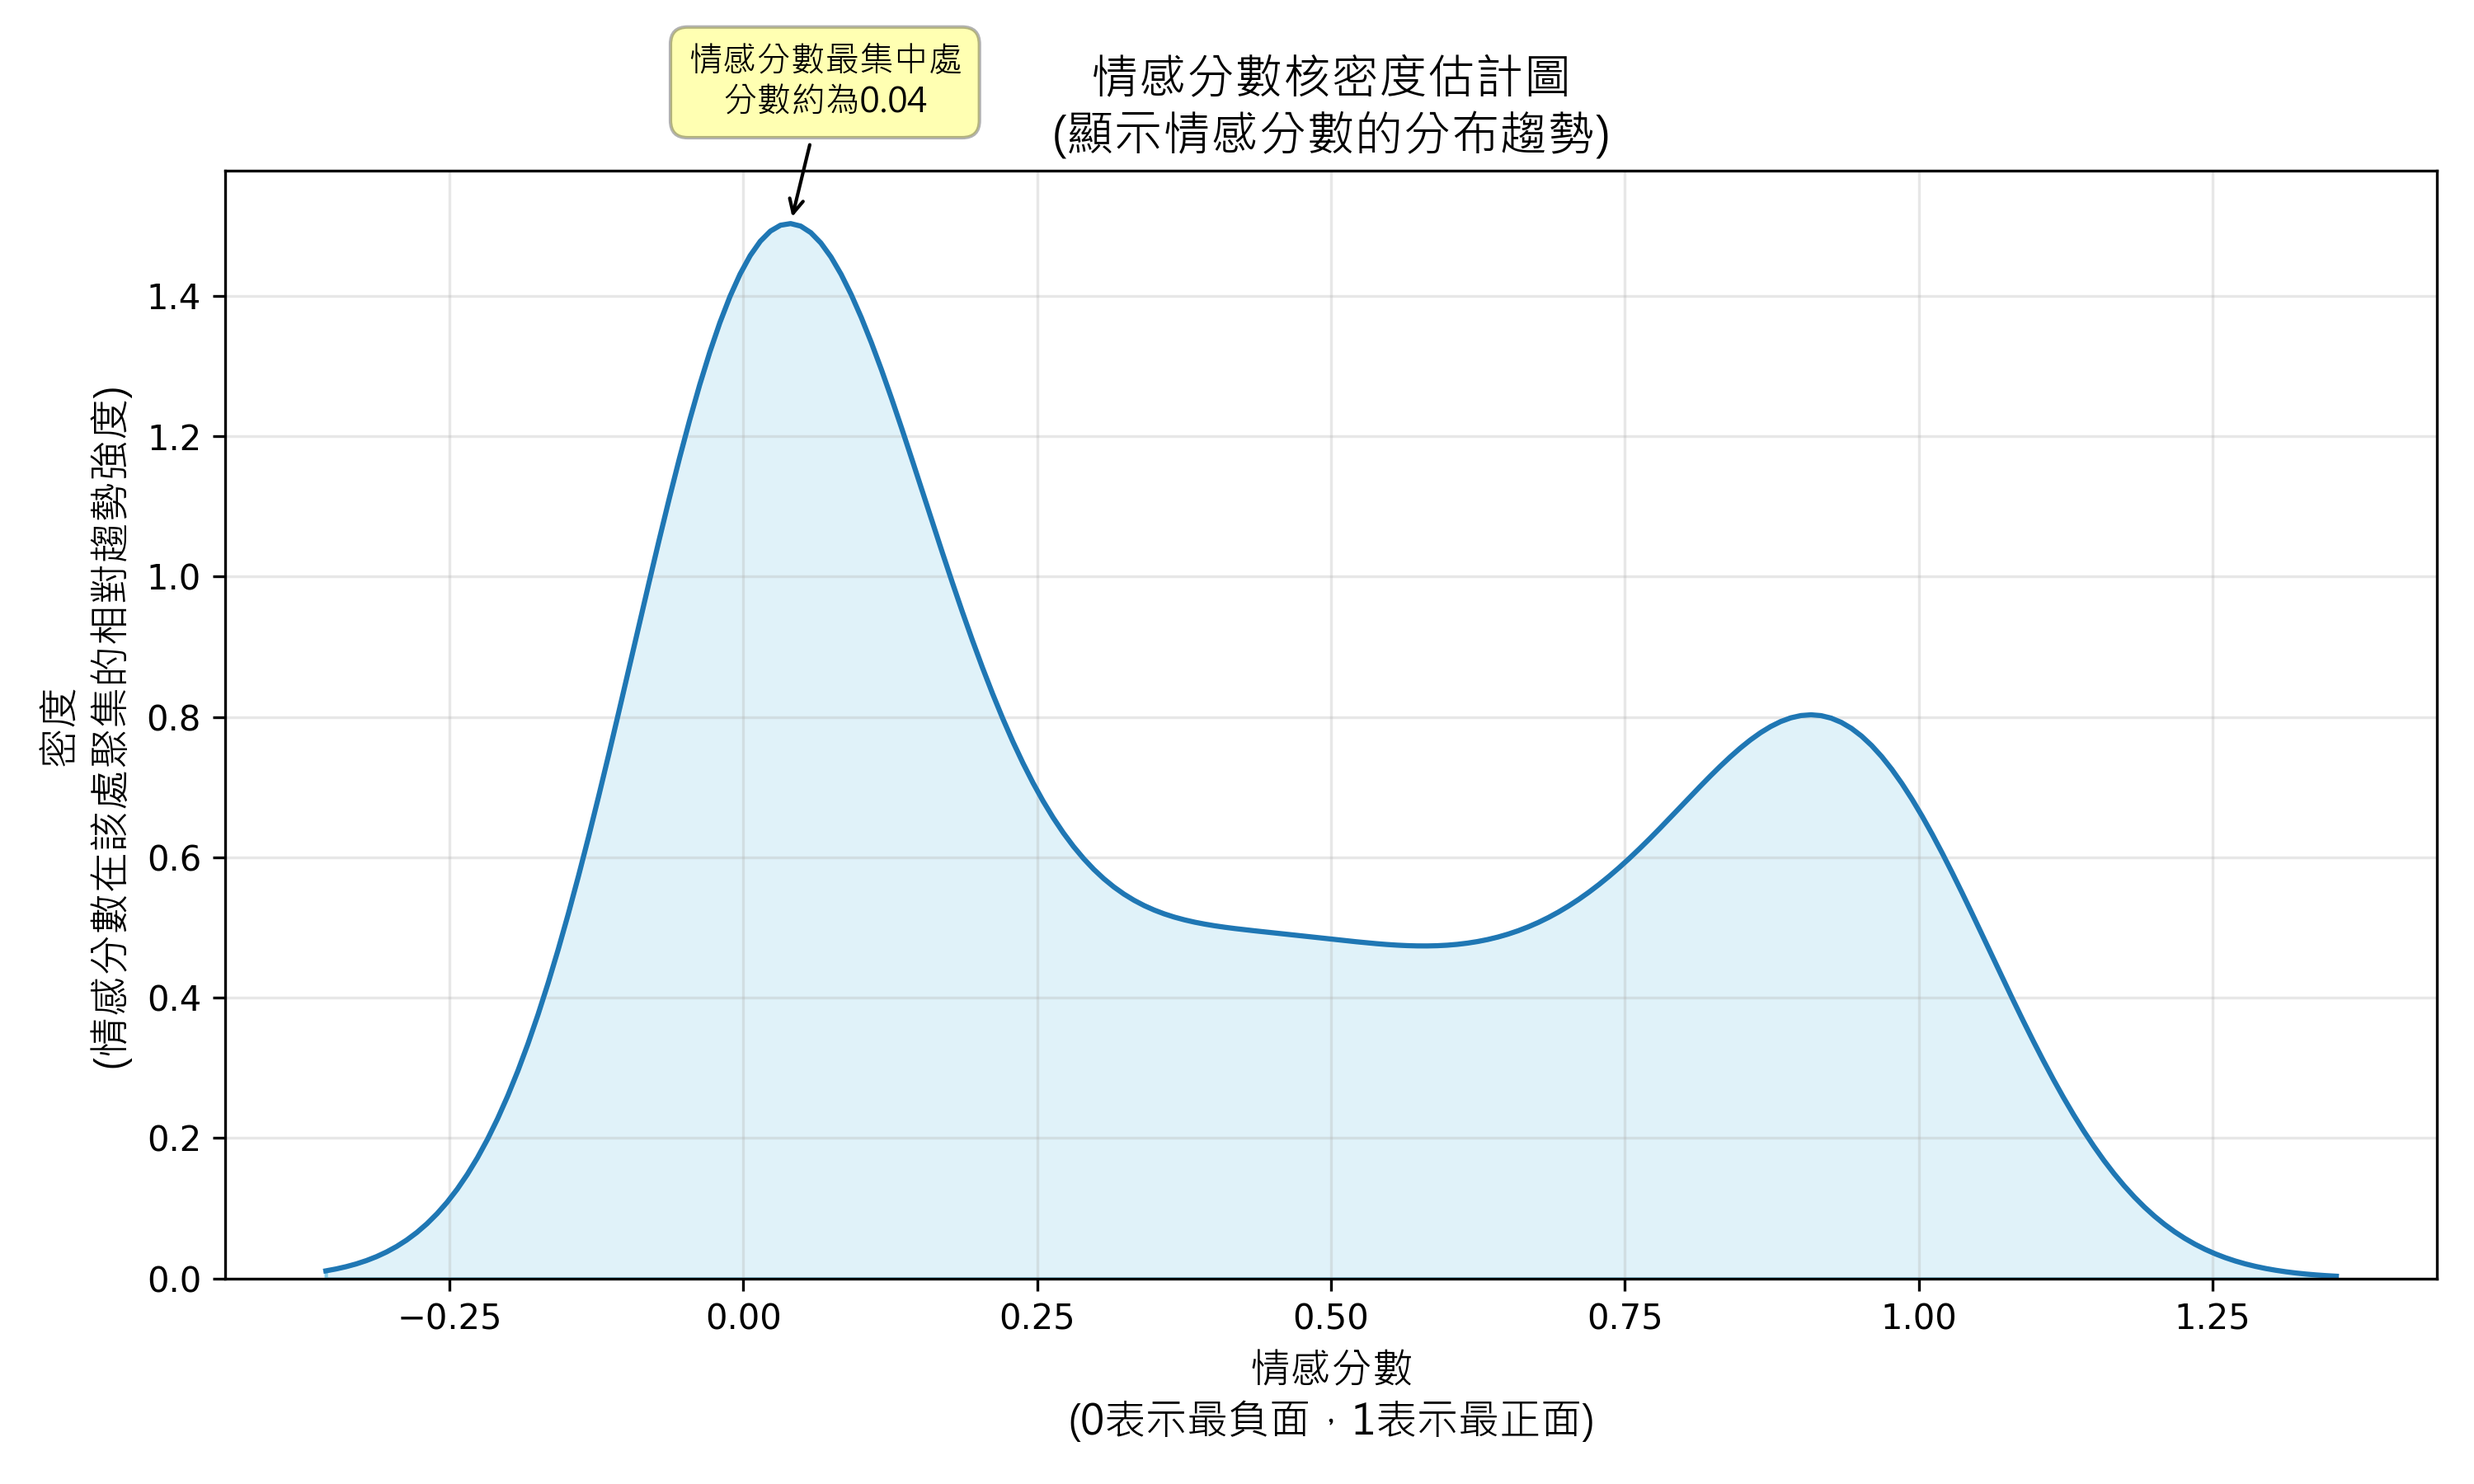
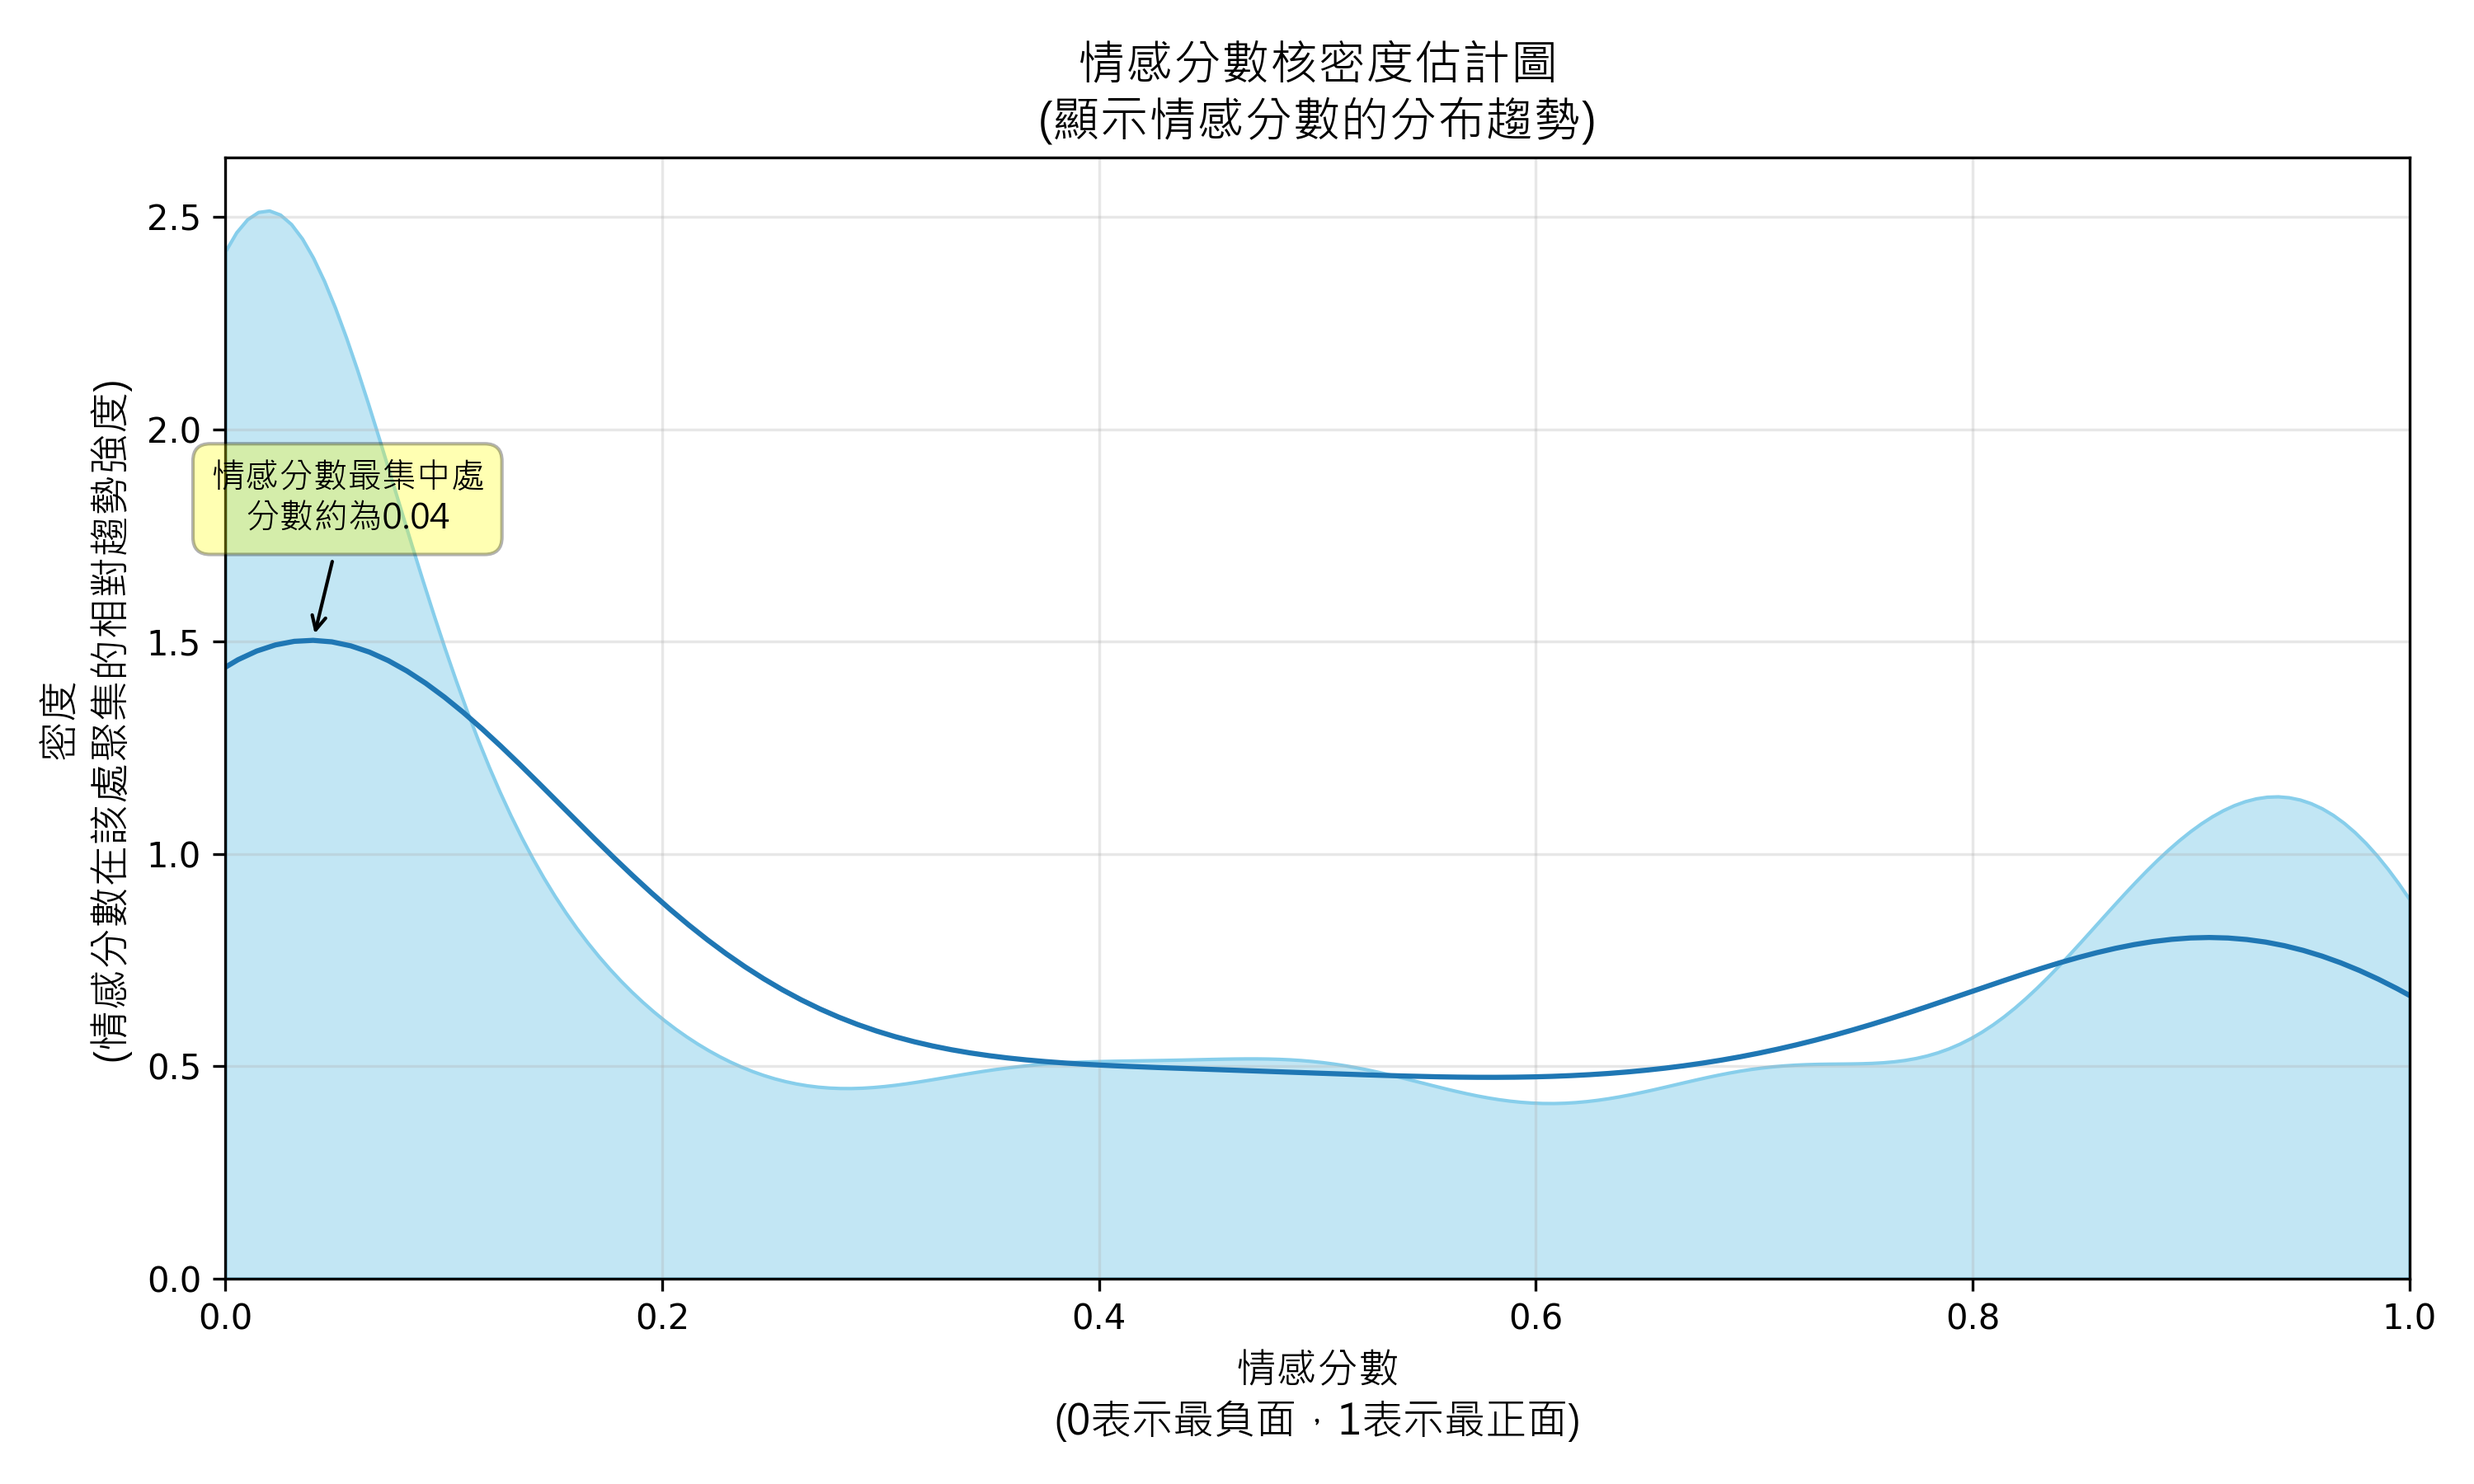
fix: 修正核密度估計圖顯示區間問題

diff --git a/wordCloud_with_sentiments.py b/wordCloud_with_sentiments.py
@@ -224,11 +224,11 @@ def create_sentiment_distribution_plots(sentiment_scores):
     """
     創建情感分數的直方圖和核密度估計圖，並加入詳細的軸說明
     """
-    if sentiment_scores.empty:
-        return None, None
+    # 確保數據不為空，且數據量足夠
+    if sentiment_scores.empty or len(sentiment_scores) < 2:
+        print("數據不足以生成核密度估計圖")
+        return None
     
-    colors = sns.color_palette("pastel")
-
     # 創建直方圖
     plt.figure(figsize=(10, 6))
     counts, bins, _ = plt.hist(sentiment_scores, bins=30, color='skyblue', edgecolor='black', alpha=0.7)
@@ -265,21 +265,18 @@ def create_sentiment_distribution_plots(sentiment_scores):
     
     # 創建核密度估計圖
     plt.figure(figsize=(10, 6))
-    sns.kdeplot(data=sentiment_scores, color='skyblue', fill=True)
-    
+    sns.kdeplot(data=sentiment_scores, color='skyblue', fill=True, alpha=0.5,clip=(0, 1), bw_adjust=0.5, kernel='epanechnikov')
     # 添加更詳細的標題和軸標籤
     plt.title('情感分數核密度估計圖\n(顯示情感分數的分布趨勢)', 
-             fontproperties=fm.FontProperties(fname=FONTS, size=14))
+            fontproperties=fm.FontProperties(fname=FONTS, size=14))
     plt.xlabel('情感分數\n(0表示最負面，1表示最正面)', 
-             fontproperties=fm.FontProperties(fname=FONTS, size=12))
+            fontproperties=fm.FontProperties(fname=FONTS, size=12))
     plt.ylabel('密度\n(情感分數在該處聚集的相對趨勢強度)', 
-             fontproperties=fm.FontProperties(fname=FONTS, size=12))
-    
+            fontproperties=fm.FontProperties(fname=FONTS, size=12))
     # 找出密度最高的點
     density = sns.kdeplot(data=sentiment_scores).get_lines()[0].get_data()
     max_density_index = np.argmax(density[1])
     max_density_score = density[0][max_density_index]
-    
     # 添加註解說明最高密度點
     plt.annotate(
         f'情感分數最集中處\n分數約為{max_density_score:.2f}',
@@ -292,10 +289,11 @@ def create_sentiment_distribution_plots(sentiment_scores):
         arrowprops=dict(arrowstyle='->', connectionstyle='arc3,rad=0'),
         fontproperties=fm.FontProperties(fname=FONTS, size=10)
     )
-    
+    # 設置顯示範圍
+    plt.xlim(0, 1)
     plt.grid(True, alpha=0.3)
     plt.tight_layout()
-    
+
     kde_path = "image/sentiment_kde.png"
     plt.savefig(kde_path, format='png', dpi=300)
     plt.close()
